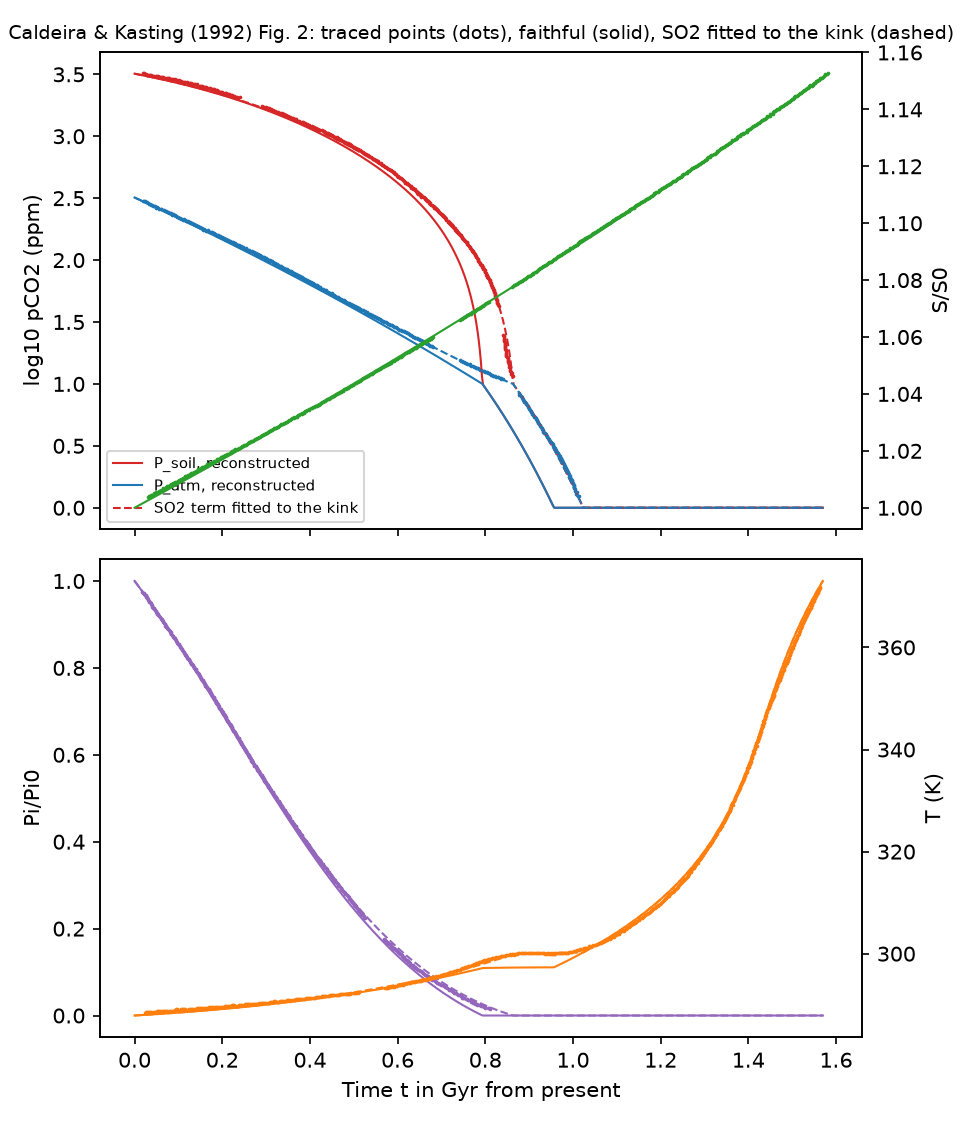
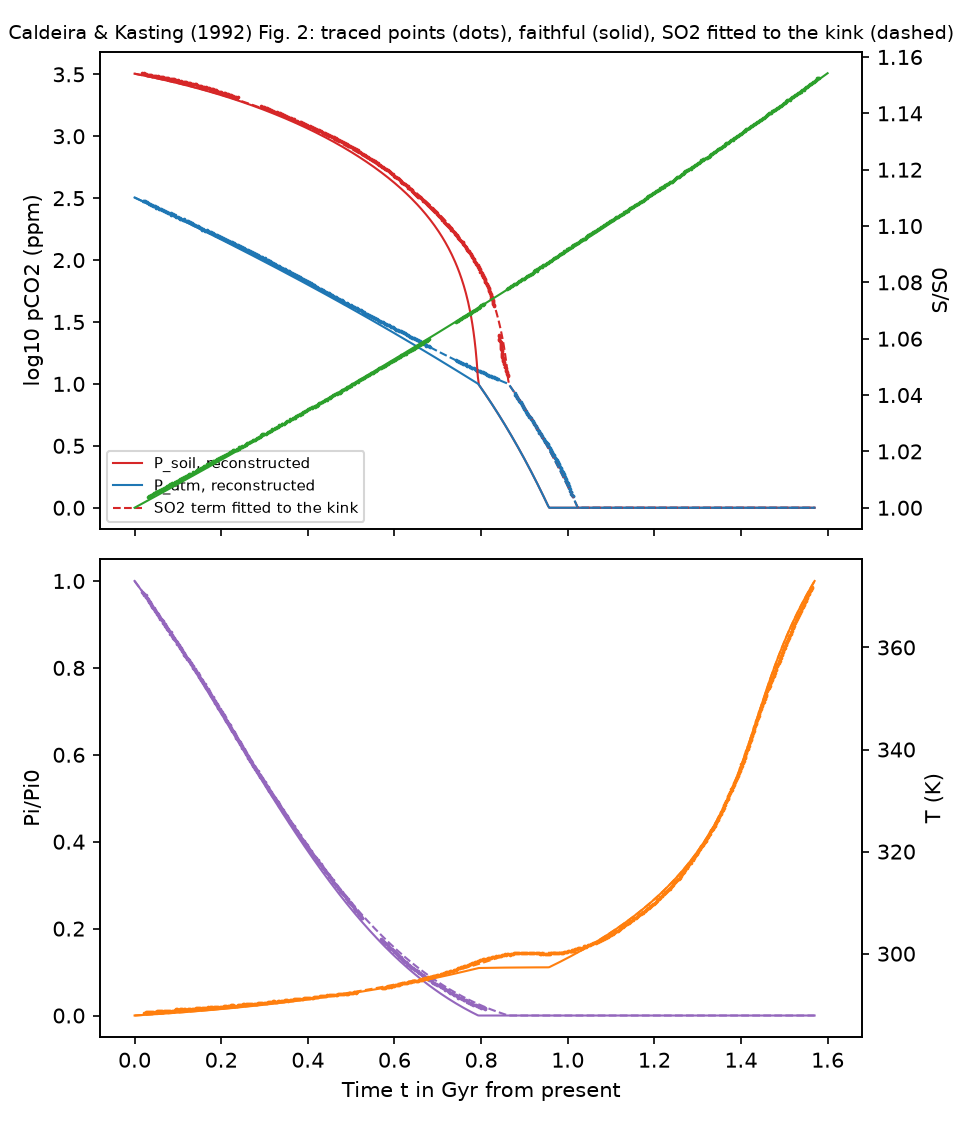
C&K: score alternatives with the SO2 factor refitted; state the fit as a sulphur share
Each alternative reading is rescored with the SO2 factor refitted to the
printed kink under it (ck1992_coupled.csv): T0 is decided by Pi(0); the two
treatments of the constants tie. Henry constants checked against Sander's
listing of Chameides (1984); the unverified claim about unprinted tables is
removed. README filings corrected: closure and the 50 C sentence move to
open items, 50-97 C measured, the productivity control described as such.
S/S0 no longer masked by the temperature-fit range.

diff --git a/src/terra_prisca/biosphere_lifespan/fidelity_ck1992.py b/src/terra_prisca/biosphere_lifespan/fidelity_ck1992.py
@@ -8,6 +8,7 @@ Writes, to models/biosphere_lifespan/fidelity/:
                           in data units on the curve's shallow stretches
   ck1992_two_way.csv      two-way pixel distances, model to traced centres and back
   ck1992_events.csv       printed and reconstructed values at the figure's features
+  ck1992_coupled.csv      each alternative reading with the SO2 factor refitted under it
   ck1992_claims.csv       the text's numerical claims against the reconstruction
   ck1992_overlay.png      traced points (never the scan) with the faithful model
 """
@@ -60,7 +61,7 @@ def model(r: m.Reading) -> dict[str, np.ndarray]:
     tr = m.trajectory(np.arange(0.0, 1.6 + STEP / 2, STEP), r)
     tr["log_P_atm"] = np.log10(tr["P_atm_ppm"])
     tr["log_P_soil"] = np.log10(tr["P_soil_ppm"])
-    for k in ("T_K", "Pi_ratio", "log_P_atm", "log_P_soil", "S_ratio"):
+    for k in ("T_K", "Pi_ratio", "log_P_atm", "log_P_soil"):
         tr[k] = np.where(tr["in_fit"], tr[k], np.nan)
     return tr
 
@@ -249,13 +250,46 @@ def model_events(r: m.Reading = m.FAITHFUL) -> dict[str, float]:
     }
 
 
-def fit_so2_factor(pdf: Path = s.DEFAULT_PDF, chemistry_T: str = "25C") -> float:
+def fit_so2_factor(pdf: Path = s.DEFAULT_PDF, base: m.Reading = m.FAITHFUL) -> float:
     """SO2 factor at which the model's 10 ppm kink falls at the printed kink."""
     from scipy.optimize import brentq
 
     target = printed_events(pdf)["kink in P_atm, t Gyr"]
-    return brentq(lambda x: m.co2_time(m.P_MIN_C4, replace(m.FAITHFUL, so2_factor=x, chemistry_T=chemistry_T)) - target,
-                  0.05, 1.0, xtol=1e-6)
+    return brentq(lambda x: m.co2_time(m.P_MIN_C4, replace(base, so2_factor=x)) - target, 0.05, 1.5, xtol=1e-6)
+
+
+COUPLED_BASES = {"faithful": m.FAITHFUL, "t0_printed": m.READINGS["t0_printed"],
+                 "chemistry_T": m.READINGS["chemistry_T"], "volk_p_half": m.READINGS["volk_p_half"]}
+OUT_OF_SAMPLE = ("Pi_ratio at t=0", "P_atm reaches 1 ppm, t Gyr", "Pi_ratio falls to 0.05, t Gyr",
+                 "T reaches 300 K, t Gyr", "T at 0.9 Gyr, K")
+
+
+def coupled(pdf: Path = s.DEFAULT_PDF) -> list[dict]:
+    """Each alternative choice with the SO2 factor refitted to the kink under it,
+    so that no alternative is judged against a base that misses the low-CO2
+    phase. The kink is fitted; every column after so2_share is a test."""
+    pr = printed_events(pdf)
+    sc, tr = _traces(pdf)
+    rows = []
+    for key, base in COUPLED_BASES.items():
+        fac = fit_so2_factor(pdf, base)
+        r = replace(base, name=f"{key}, SO2 refitted", so2_factor=fac)
+        ev = model_events(r)
+        row = {"base": key, "so2_factor": fac, "so2_share": m.so2_share(r)}
+        for k in OUT_OF_SAMPLE:
+            row[f"{k} (printed {pr[k]:.4g})"] = ev[k]
+        data = traced(sc, tr)
+        for c in CURVES:
+            if c == "S_ratio":
+                continue
+            ink = tr[c].centres
+            t_lo, t_hi = data[c][:, 0].min(), data[c][:, 0].max()
+            mp = _model_px(sc, c, r, t_lo, t_hi)
+            keep = np.array([s._excluded(x, y, sc, s.CURVE_AXES[c][0]) is None for x, y in mp])
+            row[f"{c} median px"] = float(np.median(cKDTree(ink).query(mp[keep])[0]))
+            row[f"{c} p95 px"] = float(np.percentile(cKDTree(mp).query(ink)[0], 95))
+        rows.append(row)
+    return rows
 
 
 EVENT_READINGS = {"faithful": m.FAITHFUL, "so2_fitted": m.READINGS["so2_fitted"], "t0_printed": m.READINGS["t0_printed"],
@@ -384,6 +418,7 @@ def main(pdf: Path = s.DEFAULT_PDF, outdir: Path = OUT) -> None:
     write(outdir / "ck1992_fidelity.csv", scores(pdf))
     write(outdir / "ck1992_two_way.csv", two_way(pdf))
     write(outdir / "ck1992_events.csv", events(pdf))
+    write(outdir / "ck1992_coupled.csv", coupled(pdf))
     write(outdir / "ck1992_claims.csv", claims())
     overlay(pdf, outdir / "ck1992_overlay.png")
 

diff --git a/src/terra_prisca/biosphere_lifespan/ck1992.py b/src/terra_prisca/biosphere_lifespan/ck1992.py
@@ -48,9 +48,12 @@ P_FIT = (1e-8, 1e-2)                # bar
 
 # Equilibrium constants at 298.15 K, with van 't Hoff coefficients -dH/R (K)
 # for the temperature-dependent reading. Units M atm-1 and M; bar is taken as
-# atm. Carbonate: Stumm & Morgan (1981). Sulphur: Chameides (1984),
-# doi:10.1029/JD089iD03p04739. PROVISIONAL until checked against Chameides'
-# table: these are the values widely quoted from it, not yet read from it.
+# atm. The paper takes carbonate from Stumm & Morgan (1981) and sulphur from
+# Chameides (1984), doi:10.1029/JD089iD03p04739; neither is in hand. These are
+# standard values, not read from those sources. Sander's compilation
+# (henrys-law.org, read 21 Nov 2026) lists Chameides' Henry constants as
+# 1.216 M atm-1 (3100 K) for SO2 and 0.0314 M atm-1 (2400 K) for CO2; the
+# dissociation constants are unverified.
 CO2_KH, CO2_K1, CO2_K2 = (10 ** -1.47, 2420.0), (10 ** -6.35, -1000.0), (10 ** -10.33, -1760.0)
 SO2_KH, SO2_K1, SO2_K2 = (1.23, 3120.0), (1.23e-2, 2010.0), (6.61e-8, 1500.0)
 KW = (1.0e-14, -6716.0)
@@ -142,6 +145,17 @@ def h_activity(p_soil: float, T: float, r: Reading = FAITHFUL) -> float:
         return h - (k1 * c / h * (1 + 2 * k2 / h) + s1 * s / h * (1 + 2 * s2 / h) + kw / h)
 
     return 10.0 ** brentq(bal, -12.0, 0.0, xtol=1e-13)
+
+
+def so2_share(r: Reading = FAITHFUL) -> float:
+    """Fraction of today's soil-water acidity carried by sulphur: ([HSO3-] +
+    2[SO3--]) / [H+] at Psoil0 and T0. Only this ratio, not the SO2 constants
+    themselves, enters aH/aH0."""
+    T = t0(r)
+    h = h_activity(PSOIL0, T, r)
+    s = _k(SO2_KH, T, r) * SO2 * r.so2_factor
+    s1, s2 = _k(SO2_K1, T, r), _k(SO2_K2, T, r)
+    return s1 * s / h * (1 + 2 * s2 / h) / h
 
 
 def t0(r: Reading = FAITHFUL) -> float:

diff --git a/src/terra_prisca/biosphere_lifespan/figures_ck1992.py b/src/terra_prisca/biosphere_lifespan/figures_ck1992.py
@@ -3,7 +3,7 @@
     uv run python -m terra_prisca.biosphere_lifespan.figures_ck1992 [outdir]
 
 Writes ck1992_fig2.png and ck1992_fig2.csv: Psoil, Patm, S/S0, Pi/Pi0 and T
-over the next 1.6 Gyr, for the faithful reading (documented equilibrium
+over the next 1.6 Gyr, for the faithful reading (standard equilibrium
 constants), the reading with the SO2 term fitted to the printed kink, and the
 C3-only world (Pmin = 150 ppm). T is left empty above 373.15 K, the top of
 the range the climate fits were made over.
@@ -41,7 +41,7 @@ def main(outdir: Path) -> None:
     outdir.mkdir(parents=True, exist_ok=True)
     tr = runs()
     fig, (a, b) = plt.subplots(2, 1, figsize=(6.0, 7.0), sharex=True)
-    for k, ls, lab in (("faithful", "-", "faithful (documented constants)"),
+    for k, ls, lab in (("faithful", "-", "faithful (standard constants)"),
                        ("so2_fitted", "--", f"SO2 term x {m.SO2_FIT_FACTOR} (fitted to the kink)"),
                        ("c3", ":", "C3 world, Pmin = 150 ppm")):
         a.semilogy(T, tr[k]["P_soil_ppm"], "C3" + ls, lw=1)

diff --git a/tests/test_ck1992.py b/tests/test_ck1992.py
@@ -121,6 +121,12 @@ def test_fidelity_against_scan(tmp_path):
         assert sum(v for k, v in tr.reasons.items() if k in ("none", "two strokes", "merged")) <= 6, (c, tr.reasons)
 
     assert f.fit_so2_factor(PDF) == pytest.approx(m.SO2_FIT_FACTOR, abs=2e-4)
+    assert m.so2_share() == pytest.approx(0.0598, abs=1e-4)
+    assert m.so2_share(m.READINGS["so2_fitted"]) == pytest.approx(0.0243, abs=1e-4)
+    co = {r["base"]: r for r in f.coupled(PDF)}  # alternatives with the SO2 factor refitted under each
+    px = "Pi_ratio median px"
+    assert co["faithful"][px] < 2 and co["t0_printed"][px] > 3 * co["faithful"][px]
+    assert co["volk_p_half"][px] > 20
 
     ev = {r["feature"]: r for r in f.events(PDF)}
     assert abs(ev["Pi_ratio at t=0"]["printed"] - 1.0) < 0.006   # rejects T0 = 15 C (1.017)

diff --git a/models/biosphere_lifespan/README.md b/models/biosphere_lifespan/README.md
@@ -44,8 +44,9 @@ All citations were checked against Crossref on 16 November 2026.
   Stumm & Morgan, *Aquatic Chemistry* (Wiley, 1981), for carbonate, and
   Chameides (1984), *J. Geophys. Res.* 89, 4739–4755,
   [doi:10.1029/JD089iD03p04739](https://doi.org/10.1029/JD089iD03p04739),
-  for sulphur. Sander's Henry's-law compilation records that the journal did
-  not print Chameides' tables, which the author supplied separately.
+  for sulphur. Sander's Henry's-law compilation (henrys-law.org, read
+  21 November 2026) lists Chameides' Henry constants: 1.216 M atm⁻¹ for SO₂
+  and 0.0314 M atm⁻¹ for CO₂.
 
 All of these are copyrighted and are not redistributed. Place them in
 `local/sources/biosphere_lifespan/`; the scan scripts refuse any file with a
@@ -317,9 +318,9 @@ reaches 1 ppm, T depends on eqs (1)–(5) alone.
 
 | Choice | Adopted | Reason |
 |---|---|---|
-| Present-day closure | **T₀ = the fits' own present temperature, 287.89 K** | Eqs (1)–(5) put today at 287.89 K, not 288.15 K. With T₀ = 15 °C, F = F₀ cannot hold at 320 ppm: the model starts at 335 ppm with Π/Π₀ = 1.017. The printed curves start at 324 ppm and Π/Π₀ = 1.002, so the figure closes today exactly. T₀ = 15 °C is kept as a scored reading |
-| Equilibrium constants | Carbonate at 25 °C: pK_H 1.47, pK₁ 6.35, pK₂ 10.33. SO₂ at 25 °C: K_H 1.23 M atm⁻¹, K₁ 1.23×10⁻², K₂ 6.61×10⁻⁸ | The paper points to Stumm & Morgan and to Chameides (1984), neither of which is in hand. These are the values usually quoted from them, unverified. They are held at 25 °C, the temperature of the dissolution experiments the text cites. Temperature-dependent constants are scored as a reading |
-| Strength of the SO₂ term | **Faithful: ×1 (constants as documented). Reading `so2_fitted`: ×0.391** | This choice decides the low-CO₂ phase (below). The fitted factor is the one that puts the model's 10 ppm kink at the printed kink (0.863 Gyr). Every other printed feature is then an out-of-sample test |
+| Present-day closure | **T₀ = the fits' own present temperature, 287.89 K** | Eqs (1)–(5) put today at 287.89 K, which rounds to the stated 15 °C but is not 288.15 K. With T₀ = 288.15 K, F = F₀ cannot hold at 320 ppm: the model starts at 335 ppm with Π/Π₀ = 1.017. The printed Π/Π₀ starts at 1.002, 15 px from 1.017 on an axis calibrated to 2.4 px. With the SO₂ factor refitted under each reading, T₀ = 288.15 K ties on P_soil and T but misses Π by 6.7 px against 1.6 (`fidelity/ck1992_coupled.csv`). The printed P_atm at t = 0 (324 ppm) is not used: 320 against 335 ppm is 3.3 px, inside the 4.1 px residual of the log axis |
+| Equilibrium constants | **Standard values at 25 °C.** Carbonate: pK_H 1.47, pK₁ 6.35, pK₂ 10.33. SO₂: K_H 1.23 M atm⁻¹, K₁ 1.23×10⁻² M, K₂ 6.61×10⁻⁸ M | The paper points to Stumm & Morgan (1981) and Chameides (1984), neither of which is in hand. The SO₂ Henry constant agrees within 1% with Sander's listing of Chameides (1.216 M atm⁻¹). The dissociation constants and the carbonate set are standard values, not checked against the cited sources. They are held at 25 °C, the temperature of the dissolution experiments the text cites. Temperature-dependent constants are scored as a reading |
+| Strength of the SO₂ term | **Faithful: ×1 (standard constants). Reading `so2_fitted`: ×0.391** | This choice decides the low-CO₂ phase (below). Only the ratio of sulphur to carbonate acidity enters a_H/a_H,₀, so the fit identifies that ratio, not an SO₂ constant. Sulphur carries 6.0% of today's soil-water acidity with the standard constants, and 2.4% in the fitted reading. The factor puts the model's 10 ppm kink at the printed kink (0.863 Gyr); every other printed feature is then an out-of-sample test. This reading and its target were added after the first scores, not declared in advance (board message 3627) |
 | Charge balance | [H⁺] = [HCO₃⁻] + 2[CO₃²⁻] + [HSO₃⁻] + 2[SO₃²⁻] + [OH⁻], with activity taken as concentration | Fresh rain water, as the text describes it. Bar is taken as atm (1.3%, which cancels in a_H/a_H,₀) |
 | P₁/₂ | Eq. (8) through Π₀ at (T₀, 320 ppm), temperature factor included: 205.6 ppm | As stated. Volk's eq. (13), (Π_max/Π₀ − 1)(P₀ − P_min) = 310 ppm, omits the temperature factor and is scored as a reading |
 | Π outside its range | Zero below P_min and outside 0–50 °C | The temperature factor is negative beyond 50 °C and the CO₂ factor below P_min. A negative productivity has no meaning, and the caption says P_soil = P_atm once P_atm is too low |
@@ -365,7 +366,7 @@ their stated mean errors.
 | T at the floor where weathering exceeds supply | "above 300 K" | 297.3 K | 300.3 K | — |
 | T reaches 50 °C | ~1.5 Gyr | 1.32 | 1.32 | 1.33 |
 | T reaches 80 °C | ~1.5 Gyr | 1.46 | 1.46 | 1.47 |
-| T from 50 to 100 °C | < 0.2 Gyr | 0.25 | 0.25 | ~0.24 |
+| T from 50 to 97 °C | < 0.2 Gyr (to 100 °C) | 0.226 | 0.226 | 0.227 |
 
 - **The hot phase is reproduced exactly from eqs (1)–(5).** Once P_atm sits at
   1 ppm, T crosses 50, 80, 90 and 97 °C within 0.007 Gyr of the printed
@@ -376,7 +377,7 @@ their stated mean errors.
 - **The low-CO₂ phase depends on how acid rain water is at low soil CO₂.**
   The SO₂ term sets a floor under a_H. A stronger floor stops a_H falling
   with P_soil, so T rises less to keep weathering at the modern rate, and the
-  10 ppm limit comes sooner. With the documented constants the model reaches
+  10 ppm limit comes sooner. With the standard constants the model reaches
   10 ppm at 0.79 Gyr and 1 ppm at 0.96 Gyr, and its merged P_soil = P_atm
   curve lies 47 px from the printed one. With the SO₂ term ×0.391, fitted to
   the kink alone, the curve reaches 1 ppm at 1.023 Gyr (printed 1.024) and T
@@ -384,10 +385,12 @@ their stated mean errors.
   300.3 K ("above 300 K" in the text), the C₃ world reaches 150 ppm at
   0.49 Gyr ("~0.5"), and every printed curve lies within a median 2.4 px of
   the model.
-- **Biology is what makes the span long.** With productivity held at Π₀, the
-  10 ppm limit comes at 0.50 Gyr instead of 0.79. WHK's weathering law on
-  atmospheric CO₂ gives 0.91 Gyr, but its P_atm curve lies 34 px from the
-  printed one.
+- **Declining productivity lengthens the span relative to constant
+  productivity.** With Π held at Π₀ (Volk's case W3), the 10 ppm limit comes
+  at 0.50 Gyr instead of 0.79. As Π falls, so does the soil-CO₂ gradient, and
+  T must rise further to keep weathering at the modern rate. WHK's weathering
+  law on atmospheric CO₂, with no soil or biology, gives 0.91 Gyr, but its
+  P_atm curve lies 34 px from the printed one.
 - **The constant-temperature sentence is a figure of speech.** T rises
   9–12 K over the first 0.9 Gyr. Holding T at T₀ literally would need
   10 ppm by 0.49 Gyr and 1 ppm by 0.67 Gyr.
@@ -458,6 +461,22 @@ decades (P_atm), 0.022 (P_soil), 0.0054 (Π/Π₀) and 0.46 K (T).
 
 ![Overlay](fidelity/ck1992_overlay.png)
 
+**Coupled choices** (`fidelity/ck1992_coupled.csv`). Every alternative above
+was first scored at the faithful SO₂ factor, where the faithful reading itself
+misses the low-CO₂ phase. Here each is rescored with the factor refitted to
+the kink under it:
+
+| Base reading | SO₂ factor | Sulphur share today | Π/Π₀ at t = 0 (printed 1.002) | Median px: P_soil / P_atm / Π / T |
+|---|---|---|---|---|
+| **T₀ = present of the fits, 25 °C constants** | 0.391 | 2.4% | 1.000 | 2.4 / 1.2 / 1.6 / 2.1 |
+| T₀ = 288.15 K | 0.429 | 2.7% | 1.017 | 1.9 / 2.2 / 6.7 / 1.9 |
+| Constants follow T | 0.548 | 5.2% | 1.000 | 2.3 / 1.2 / 4.0 / 2.1 |
+| Volk's P₁/₂ | 0.391 | 2.4% | 0.879 | 14.0 / 8.4 / 32.1 / 1.9 |
+
+T₀ is decided by Π. The two treatments of the constants fit about equally
+well. The printed figure cannot separate them, and both put the C₄ limit at
+the printed 0.863 Gyr by construction.
+
 **Printed features** (`fidelity/ck1992_events.csv`), read from the traces:
 
 | Feature | Printed | Faithful | SO₂ fitted | T₀ = 15 °C |
@@ -519,7 +538,7 @@ decades (P_atm), 0.022 (P_soil), 0.0054 (Π/Π₀) and 0.46 K (T).
 - **The stated lifespans hold to their rounding.** The C₃ world reaches
   150 ppm at 0.44–0.49 Gyr ("~0.5"). The C₄ limit comes at 0.79–0.86 Gyr
   ("0.9"), and the 1 ppm floor at 0.96–1.02 Gyr ("~1 Gyr"). Each range runs
-  from the documented constants to the fitted SO₂ term.
+  from the standard constants to the fitted SO₂ term.
 - **C&K's reading of Lovelock & Whitfield checks out against our
   reconstruction.** Their √P ∝ 1.017S₀ − S compares with 1.0186 from the
   faithful L&W rule, and ~4 W m⁻² of trapping comes out at 4.07 W m⁻².
@@ -542,17 +561,9 @@ decades (P_atm), 0.022 (P_soil), 0.0054 (Π/Π₀) and 0.46 K (T).
 
 ### Caldeira & Kasting (1992)
 
-- **"T₀ = 15 °C" cannot close today with the published fits.** Eqs (1)–(5)
-  put today at 287.89 K. Taken at 15 °C, the model starts at 335 ppm with
-  Π/Π₀ = 1.017. The printed curves start at 324 ppm and 1.002, so the
-  computation must have closed today at the climate's own temperature, or
-  its fits differed from the printed coefficients within their errors.
-- **"Exceed 50 °C after ~1.5 Gyr"** is true only "with negligible
-  atmospheric CO₂". At 0.01 ppm, the fits' lower bound, it comes at 1.46 Gyr.
-  The model as run holds 1 ppm, and both the model and the paper's own Fig. 2
-  reach 50 °C at 1.33 Gyr.
-- **"From 50 °C to 100 °C in <0.2 Gyr"** takes about 0.24 Gyr in the paper's
-  own figure and 0.25 Gyr in the reconstruction.
+- **"From 50 °C to 100 °C in <0.2 Gyr."** The paper's own figure takes
+  0.227 Gyr to go from 50 to 97 °C, the highest level the trace reaches; the
+  reconstruction takes 0.226 Gyr.
 - **"Maintain a constant temperature for the next 0.9 Gyr"** describes a rise
   of 12 K in the figure (288.3 to 300.2 K) and 9–12 K in the reconstruction.
 - **"The present level of 350 p.p.m."** appears in the text, but the model
@@ -583,13 +594,15 @@ decades (P_atm), 0.022 (P_soil), 0.0054 (Π/Π₀) and 0.46 K (T).
 
 - **The acid chemistry at low soil CO₂.** This is the one ingredient that
   moves the CO₂-limited lifespan:
-  - with the documented carbonate and SO₂ constants, the C₄ limit comes at
+  - with standard carbonate and SO₂ constants, the C₄ limit comes at
     0.79 Gyr;
   - the printed figure implies an SO₂ term 0.39 times as strong (0.55 with
     temperature-dependent constants), which gives 0.86 Gyr.
 
-  Chameides' (1984) tables were not printed in the journal, and Stumm &
-  Morgan (1981) is not in hand. Whether the difference lies in the constants,
+  The fit fixes only the share of today's soil-water acidity that sulphur
+  carries: 2.4%, against 6.0% with the standard constants. Neither Chameides
+  (1984) nor Stumm & Morgan (1981) is in hand. Whether the difference lies in
+  the constants,
   in how SO₂ was dissolved, or in the temperature at which the constants were
   evaluated cannot be settled without C&K's own values.
 - **The 20.4 W m⁻² of trapping by 320 ppm, and 3.4 W m⁻² for doubled CO₂,**
@@ -597,3 +610,11 @@ decades (P_atm), 0.022 (P_soil), 0.0054 (Π/Π₀) and 0.46 K (T).
   Box 1, and are not reproduced here.
 - **The 1 Gyr ocean-loss estimate** uses an ocean mass that the paper does not
   state; 1.4×10²¹ kg gives 0.97 Gyr.
+- **How today was closed.** The fits put today at 287.89 K, which rounds to
+  the stated 15 °C. The printed Π/Π₀ starts at 1.002, so the computation
+  closed today at the climate's own temperature, or with fits that differ
+  from the printed coefficients within their stated errors.
+- **"Exceed 50 °C after ~1.5 Gyr"** is stated "with negligible atmospheric
+  CO₂", and the fits give 1.46 Gyr at 0.01 ppm, their lower bound. The model as
+  run holds 1 ppm and reaches 50 °C at 1.32 Gyr, as Fig. 2 does (1.33). Which
+  case the sentence means is open.
